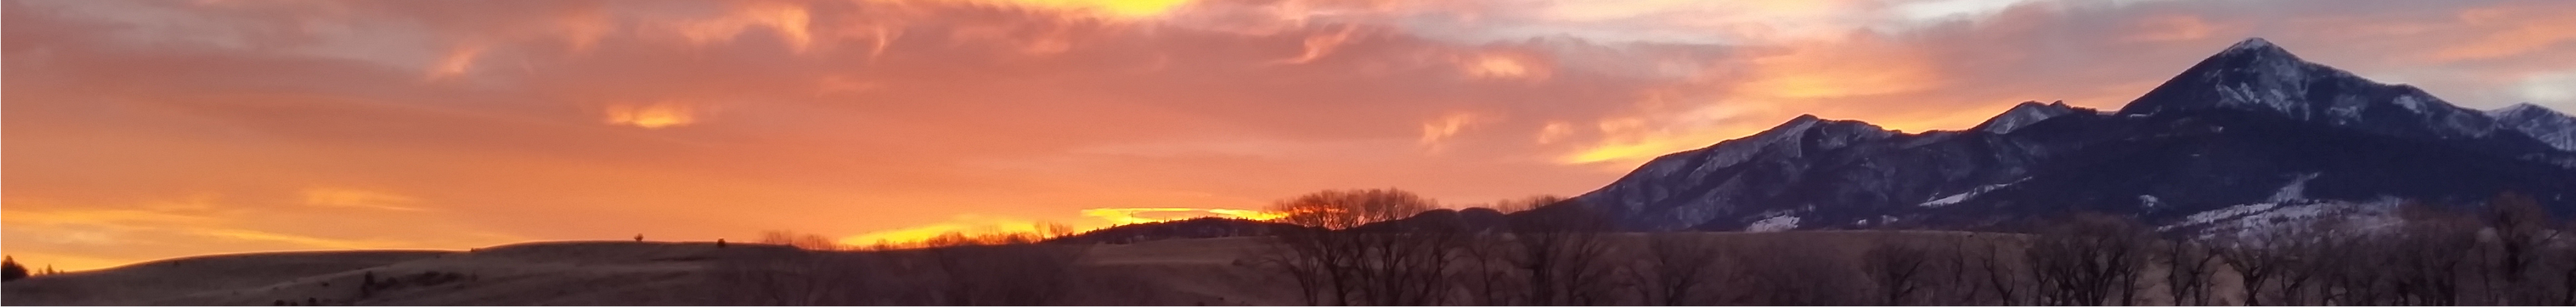
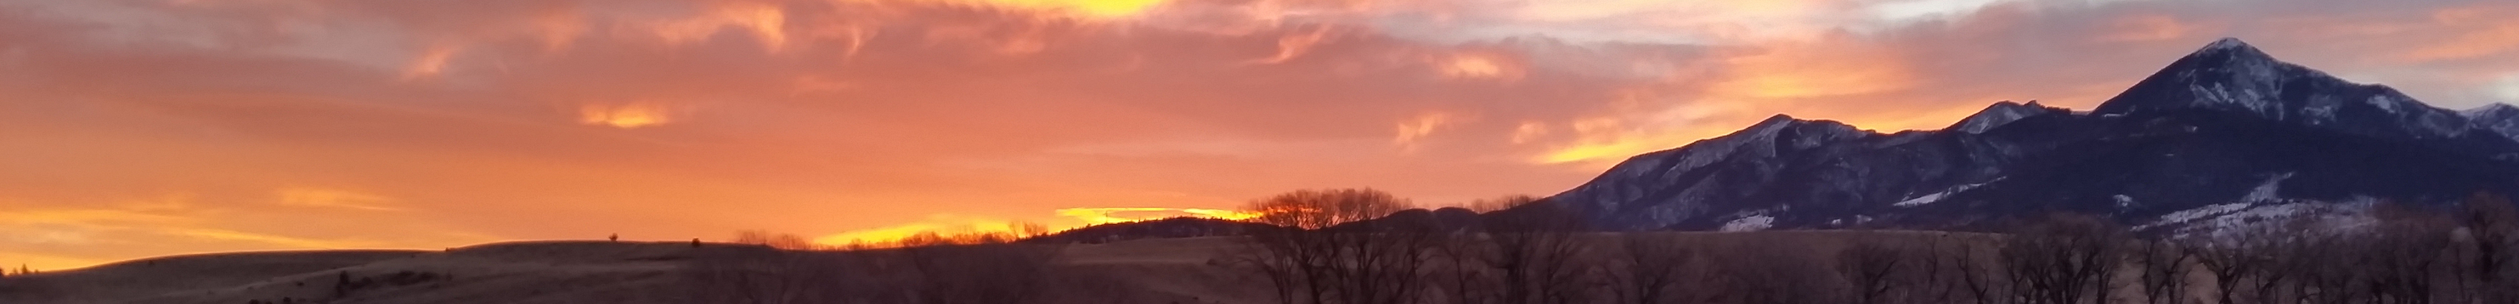
hopefully this time

diff --git a/css/styles.css b/css/styles.css
@@ -1,6 +1,6 @@
 .header {
-  background-image: url('images/billings.jpg');
-  background-position: 350px 0px;
+  background-image: url('../images/billings.jpg');
+  background-position: 349px 0px;
   background-size: auto 130px;
   overflow: hidden;
   display: flex;
